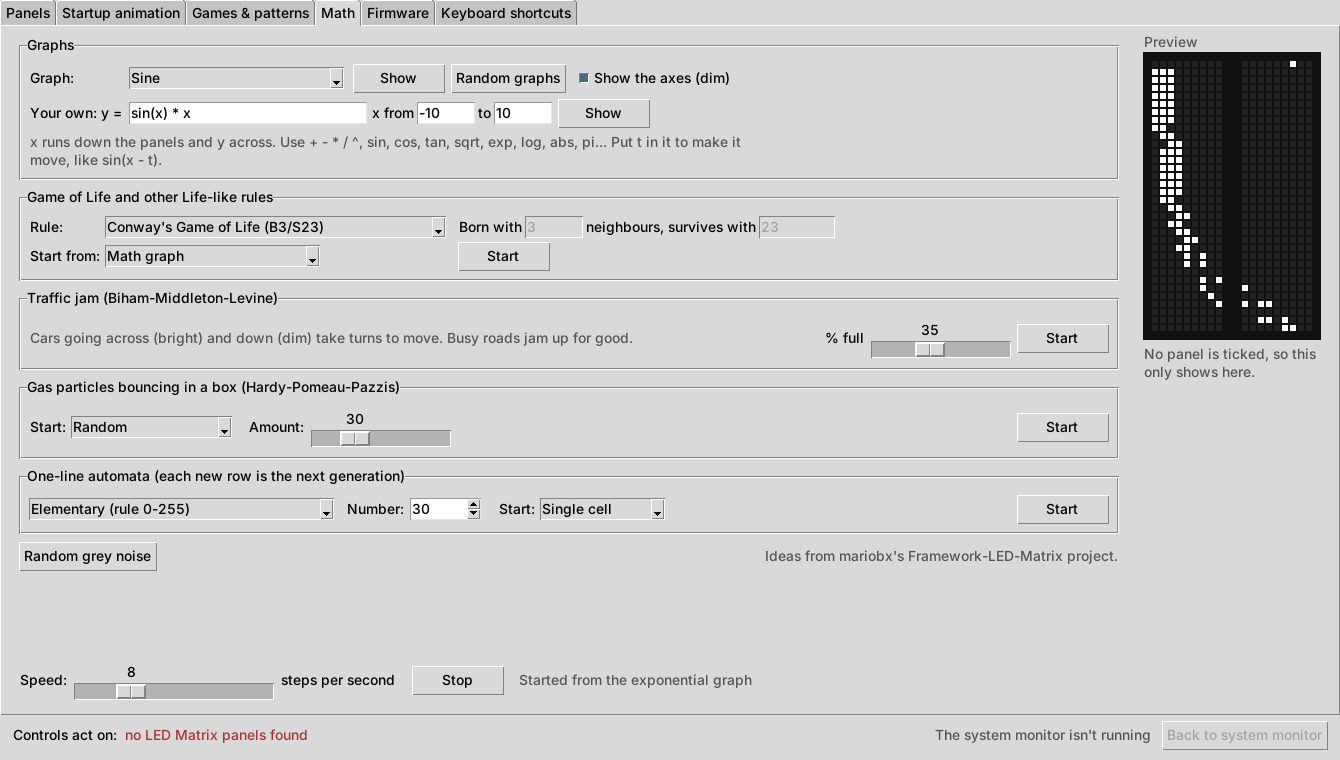
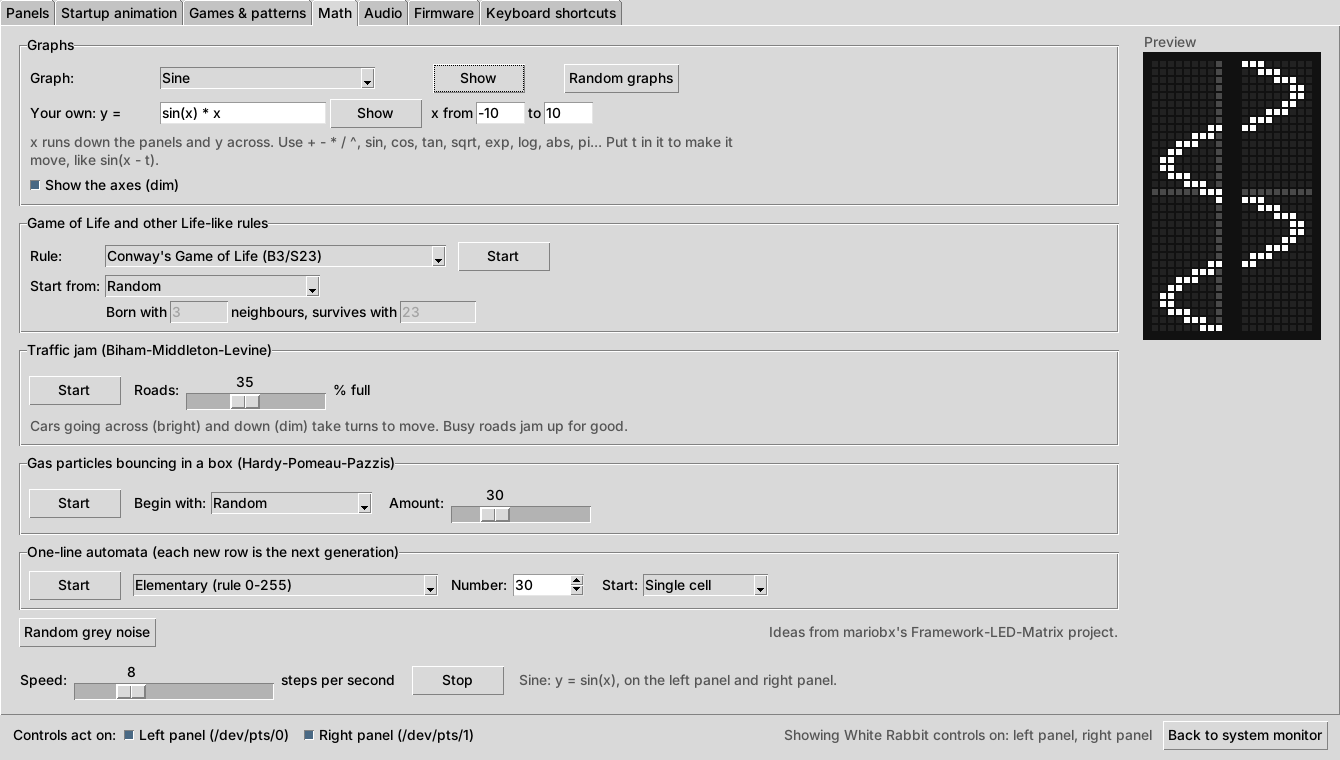
Add Audio tab screenshots and refresh all screenshots
- New: Audio tab with music mode on, a picture of all 15 visualizer
  looks, and the Keyboard shortcuts tab.
- Retaken: Panels, Startup animation, Games & patterns, Math and
  Firmware tabs (now with the Audio and Keyboard shortcuts tabs), and
  the panel apps picture (Equalizer is now Audio visualizer).
- The Game of Life patterns picture is unchanged.

Claude-Session: https://claude.ai/code/session_01RrKeqjr8rhi6Hr2kf38Hty

diff --git a/README.md b/README.md
@@ -96,6 +96,14 @@ microphone hears (pick any microphone Windows has).
 
 The same looks and options are on the *Audio visualizer* app in the layout
 editor, so it can also take turns with the other apps.
+
+![The Audio tab with music mode on](docs/screenshots/white-rabbit-audio.png)
+
+![All 15 audio visualizer looks, left and right panel](docs/screenshots/audio-visualizer-looks.png)
+
+*All 15 looks playing the same moment of music, drawn by the app's own
+visualizer code.*
+
 ### Math tab
 
 Graphs and simulations drawn in greyscale on the panels. With both panels
@@ -134,8 +142,11 @@ Lists the monitor's keyboard shortcuts and what each one does, with a
 checkbox to turn each shortcut on or off. A shortcut that's off is left free
 for other programs, and the change works straight away without restarting.
 
+![The Keyboard shortcuts tab](docs/screenshots/white-rabbit-shortcuts.png)
+
 *Screenshots taken on Linux with simulated panels, so the window looks a little
-different from Windows.*
+different from Windows (the shortcuts show as `Alt` + key there instead of
+`Ctrl`+`Alt`+`Shift` + key).*
 
 ## Install and use
 
